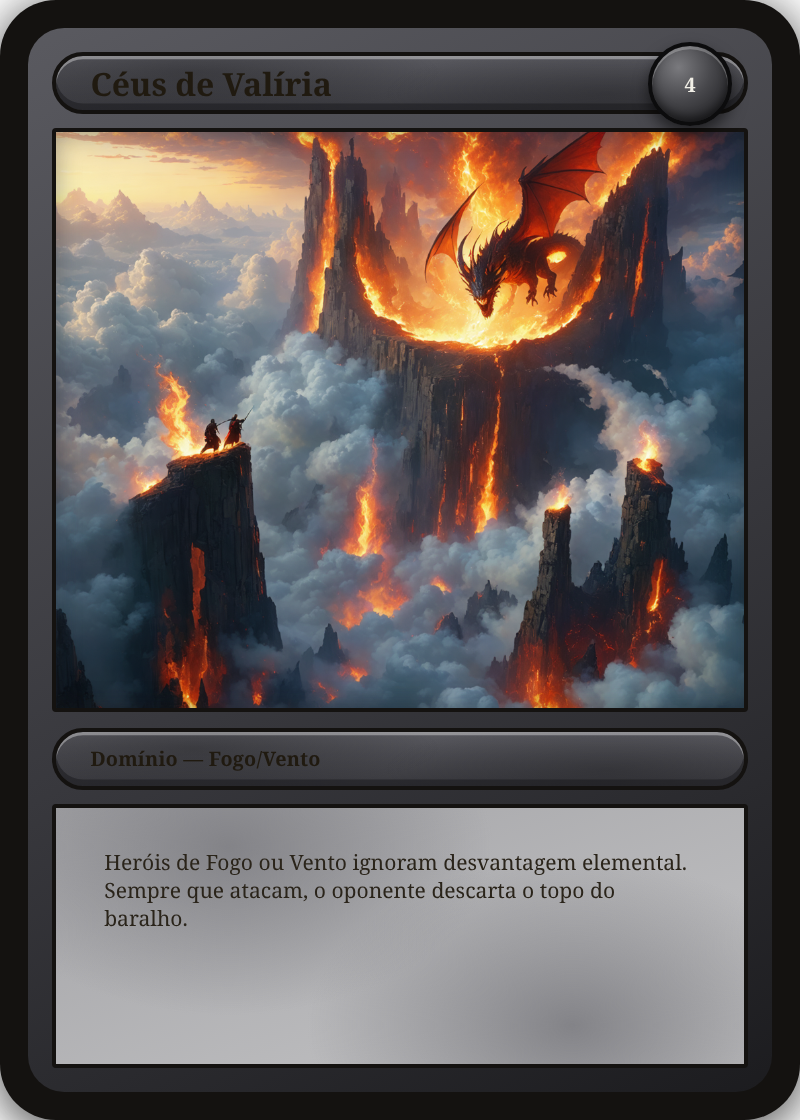
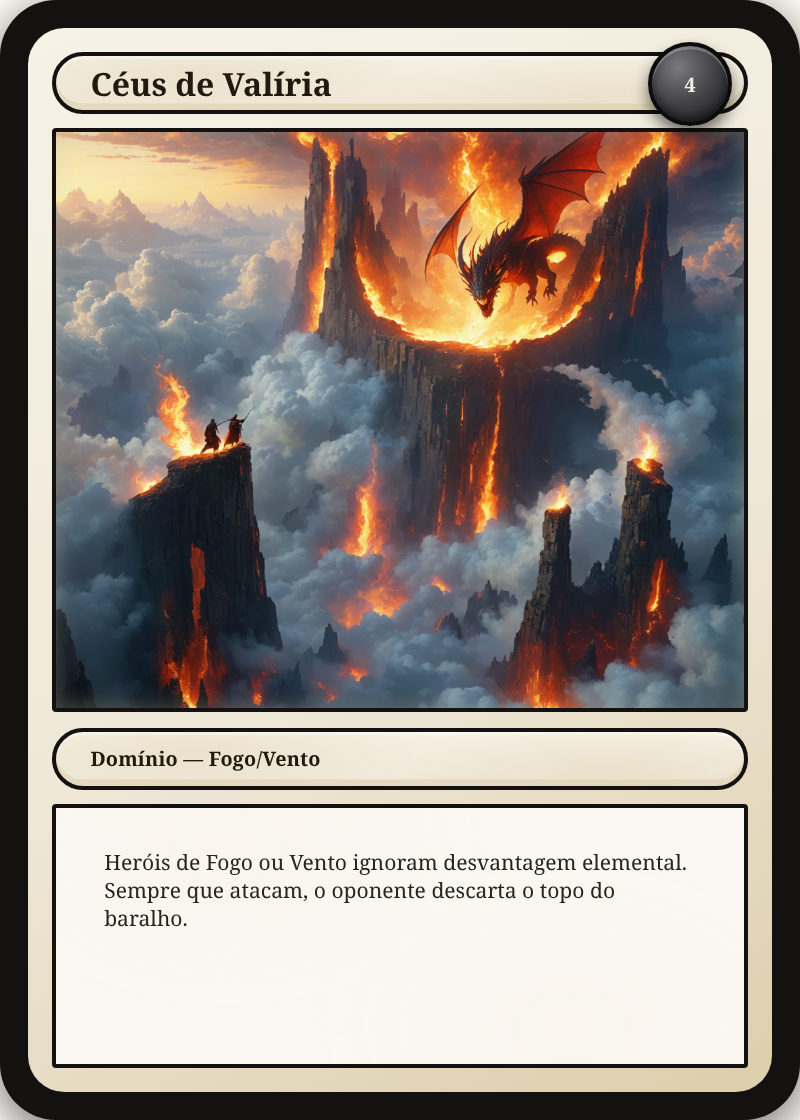
Revert "Cartas de Domínio ficam cinza-escuro em vez do pergaminho neutro padrão"
This reverts commit 504445d3278afb9c1212a1b685e076794f198c2f.

diff --git a/scripts/renderizar_cartas.py b/scripts/renderizar_cartas.py
@@ -2,7 +2,7 @@
 """Renderiza uma carta PNG por linha do CSV, usando templates/card.css.
 Usa a arte em arts/<Nome>.png quando existe; senao deixa a janela de arte em branco.
 Cor da carta segue o elemento (Herói/Monstro), ou o tipo (Encantamento = verde,
-Maldição = roxo profundo, Domínio = cinza-escuro).
+Maldição = roxo profundo); Domínios ficam no pergaminho neutro padrao.
 """
 import os
 import shutil
@@ -28,7 +28,6 @@ PALETA_ELEMENTO = {
 PALETA_TIPO = {
     "Encantamento": ("#d7f6e2", "#5fce8c", "#1f8c53", "#0c4128"),  # verde
     "Maldição": ("#e6d9f6", "#9a5ed1", "#5a1e93", "#290c49"),      # roxo profundo
-    "Domínio": ("#5a5a60", "#38383d", "#1c1c1f", "#000000"),       # cinza-escuro
 }
 
 PAGE_STYLE = """
@@ -91,7 +90,7 @@ def paleta_da_carta(row):
     tipo = row["Tipo"]
     if tipo in COM_STATS:
         return PALETA_ELEMENTO.get(row["Elemento"])
-    return PALETA_TIPO.get(tipo)
+    return PALETA_TIPO.get(tipo)  # None para Domínio -> pergaminho neutro padrao
 
 
 def build_html(row, css, art_path):
